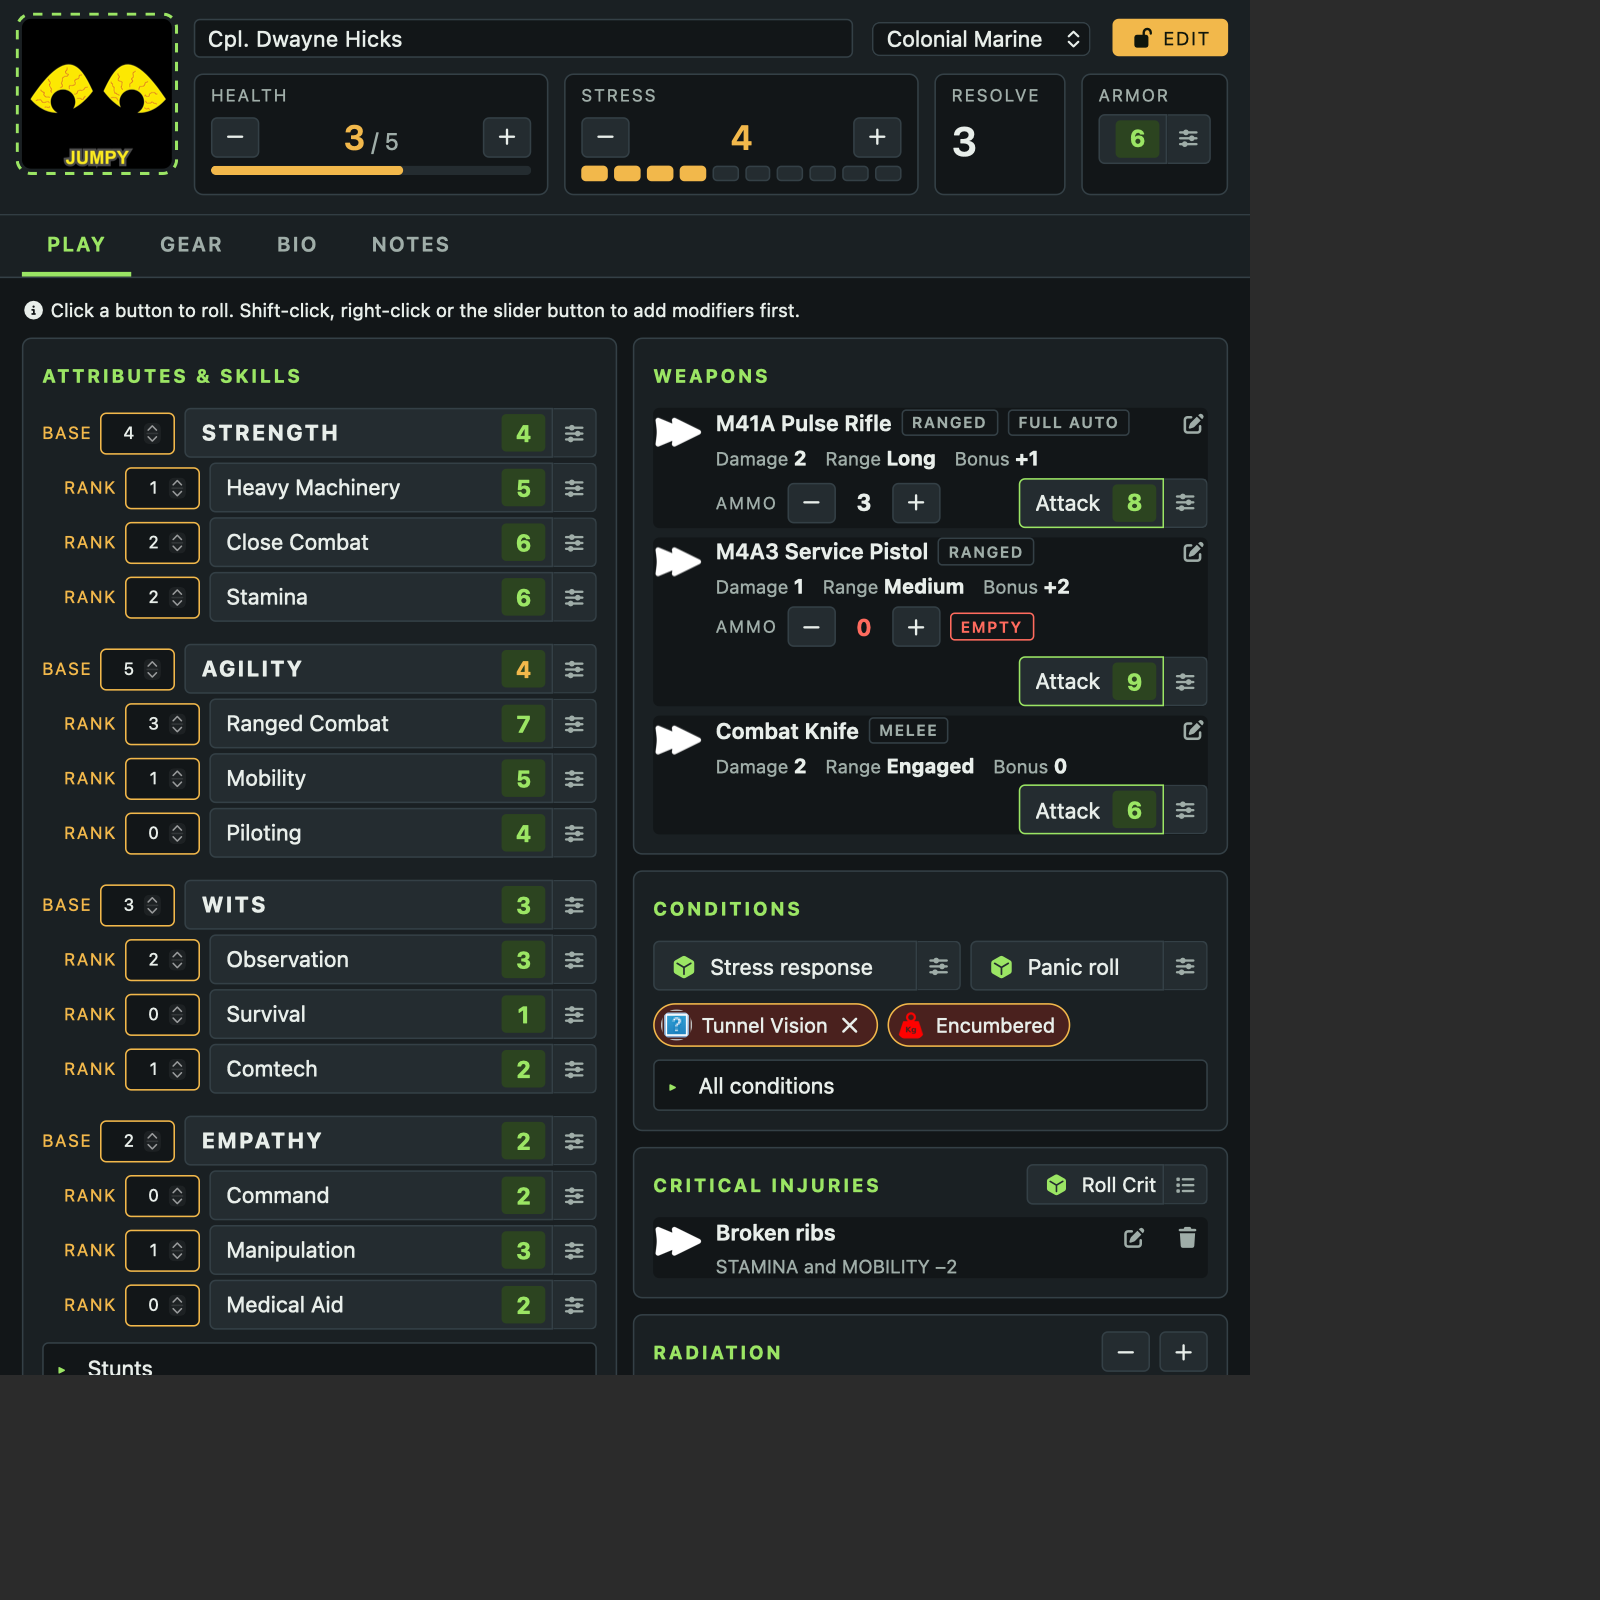
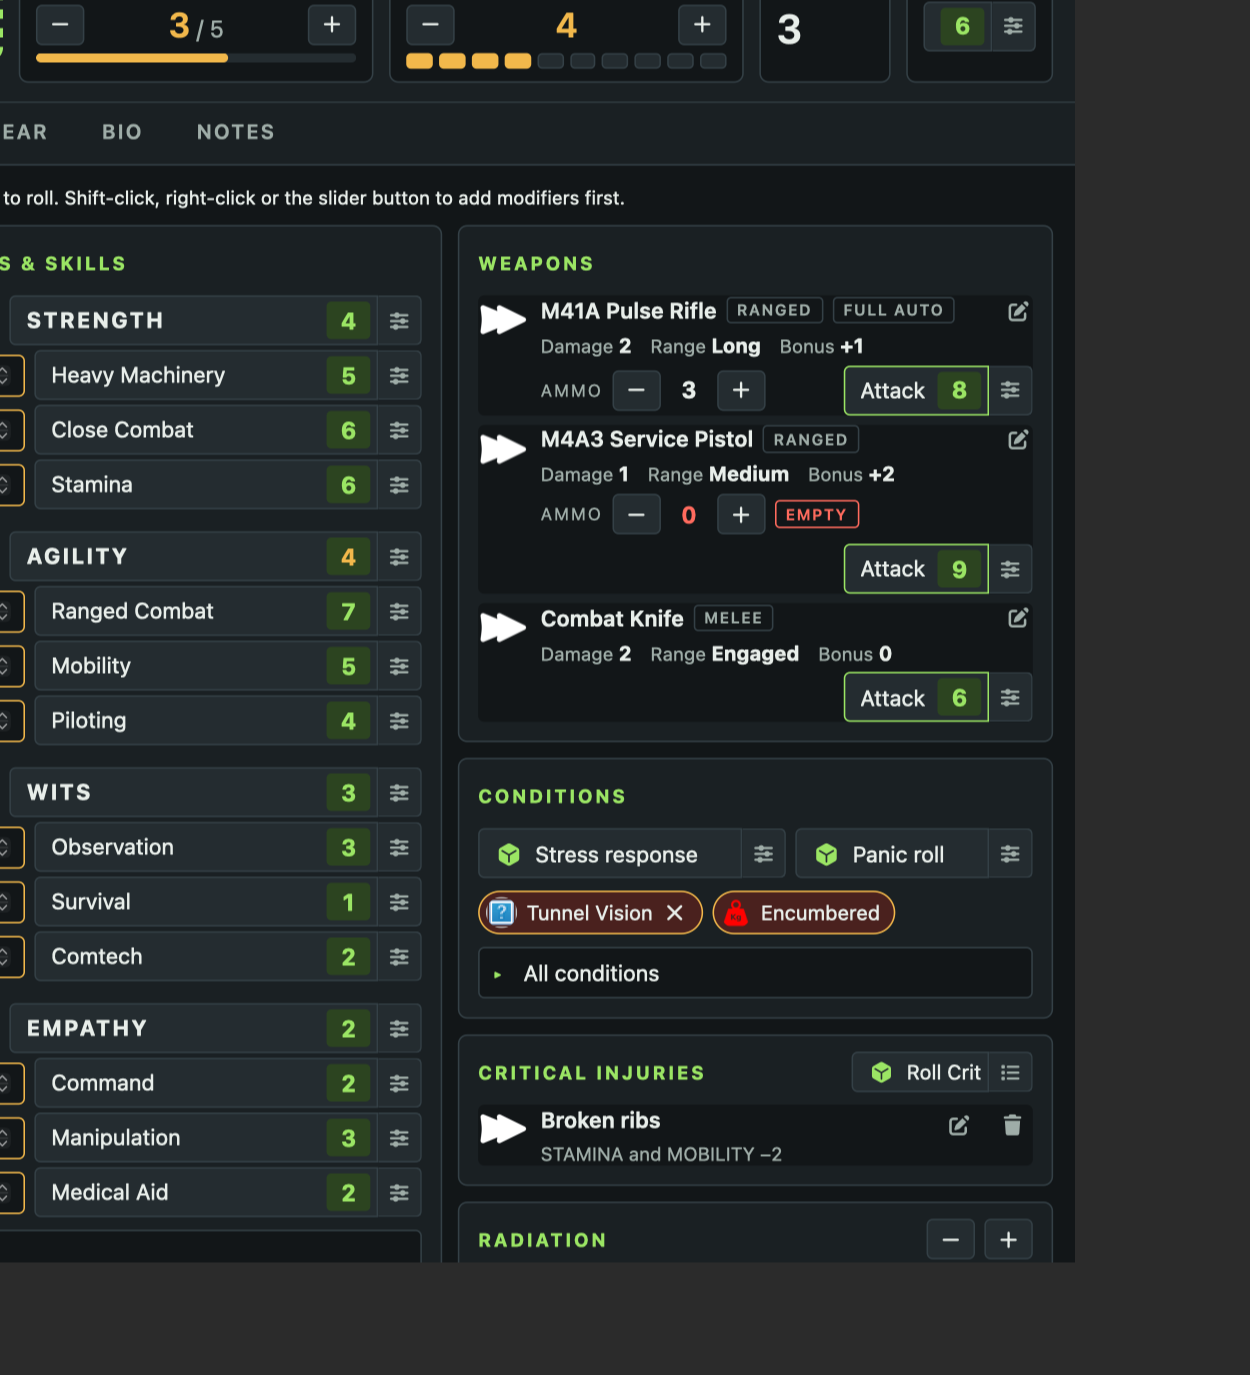
Show the Play and Gear tab previews in the README
Crop the empty margins off the preview images.

diff --git a/README.md b/README.md
@@ -4,6 +4,11 @@ An alternate character sheet for the [Alien RPG system](https://github.com/pwats
 (`alienrpg` 4.x, Foundry v13–v14), built for the **Evolved** rules. It registers alongside the
 system's sheet for `character` and `synthetic` actors, so either can be used per character.
 
+<p>
+  <img src="docs/preview-play.png" alt="Play tab: attributes, skills, weapons and conditions with roll buttons" width="49%">
+  <img src="docs/preview-gear.png" alt="Gear tab: weapons, armor and items with Equipped / Carried / Stowed switches" width="49%">
+</p>
+
 - **Play tab** — attributes and skills, equipped weapons, conditions, critical injuries, radiation
   and supplies on one screen. Every roll is a button showing the number of dice it rolls. The
   slider button beside it (or shift-click, or right-click) asks for modifiers first.
